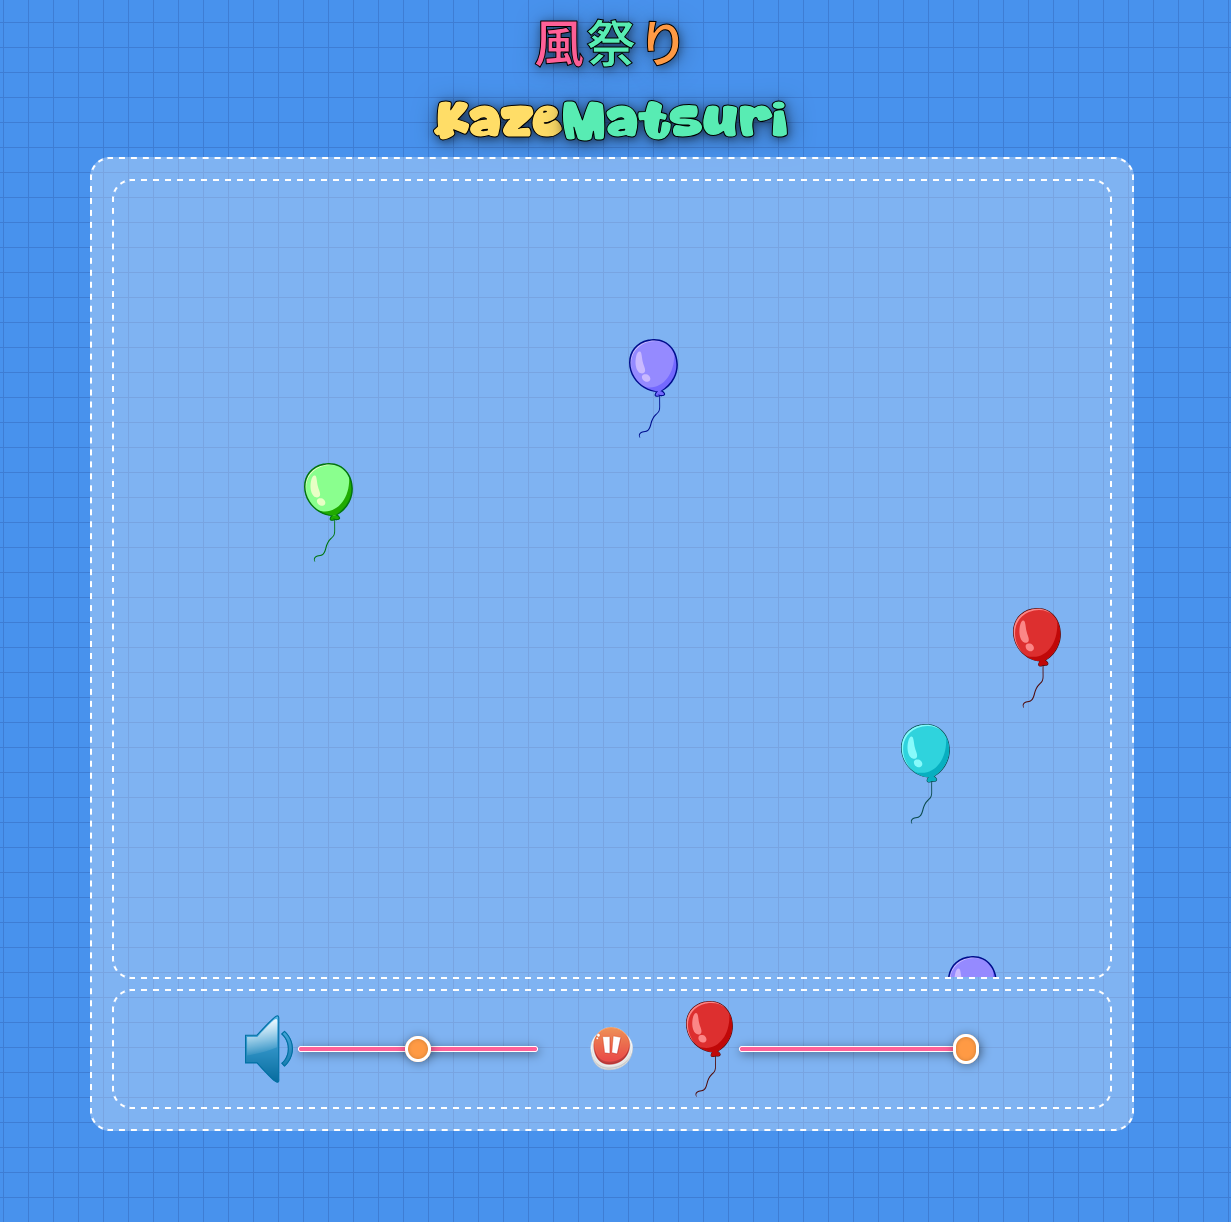
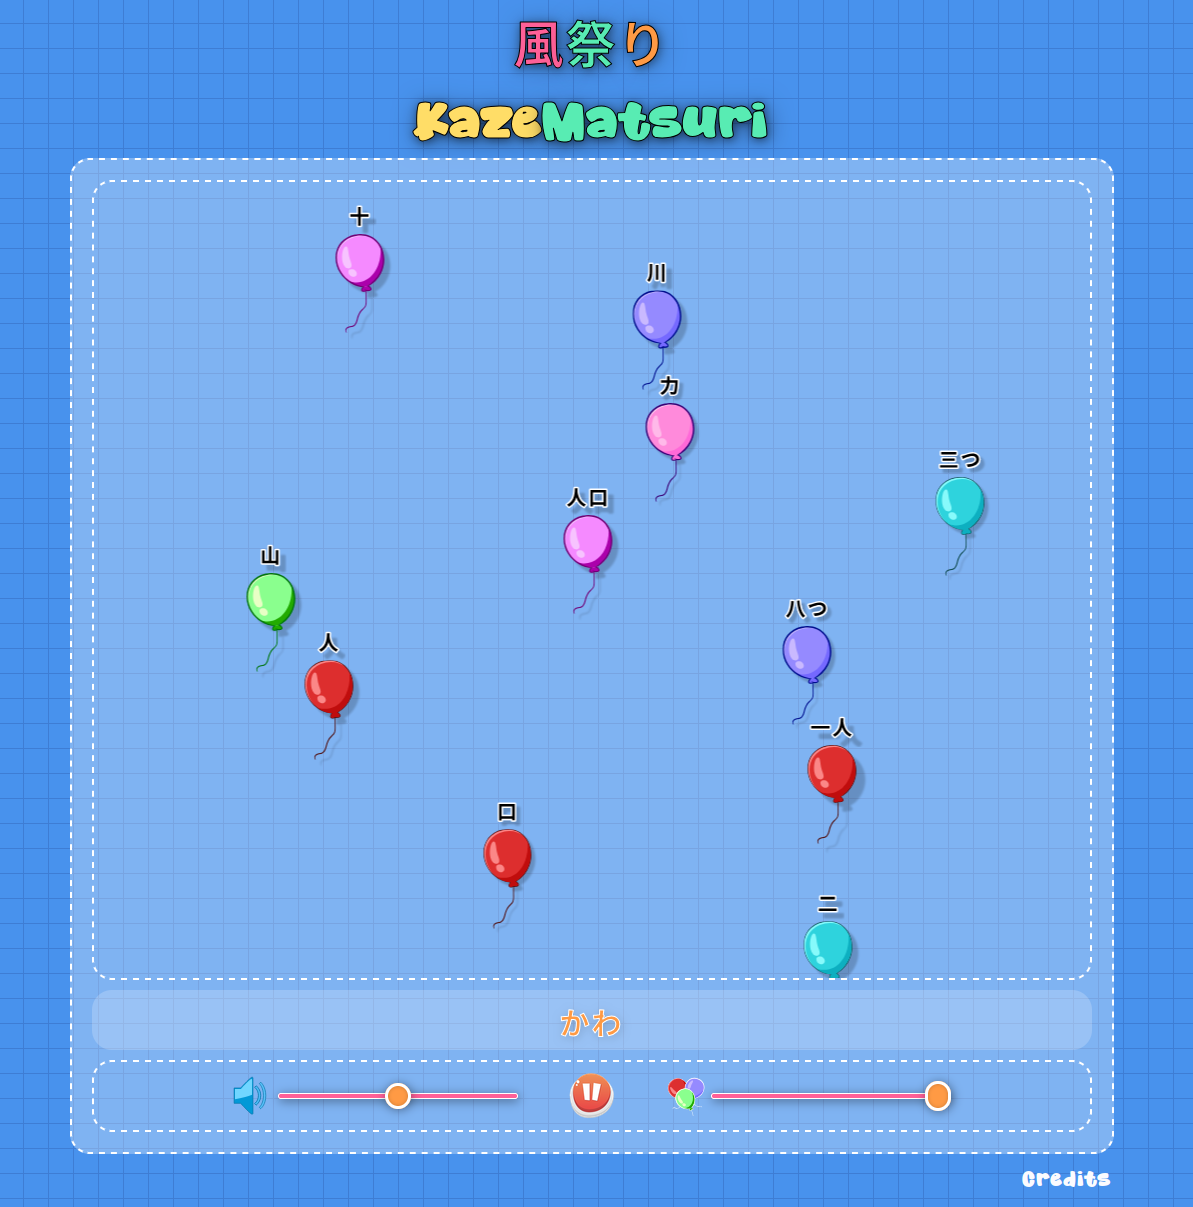
Improve gameplay

diff --git a/app/components/balloon-graph.tsx b/app/components/balloon-graph.tsx
@@ -68,7 +68,7 @@ function createNewBalloon(vocabulary: KanjiWithReadings[]): Balloon {
         y: SvgHeight,
         z: Math.floor(Math.random() * 3 + 1), // Corresponds to the index of one of the shadow filters
         xSpeed: 2 * (Math.random() - 0.5), // Side-wind speed between -1 and 1
-        ySpeed: 1 + Math.random(),
+        ySpeed: 1,
     };
 }
 
@@ -101,9 +101,16 @@ export default function BalloonGraph() {
 
     // Pop balloons that match the completed kana input by the user
     useEffect(() => {
-        console.log("graph received completeKanas:", completeKanas);
-        const newBalloons = balloons.filter(b => !b.readings.includes(completeKanas));
-        setBalloons(newBalloons);
+        setBalloons(oldBalloons => {
+            const newBalloons = oldBalloons.filter(b => !b.readings.includes(completeKanas));
+
+            // If there are no more balloons, create a new one so the user doesn't get bored
+            if (newBalloons.length === 0 && vocabulary.length > 0) {
+                return [createNewBalloon(vocabulary)];
+            }
+
+            return newBalloons;
+        })
     }, [completeKanas]);
 
     // Balloon Simulator